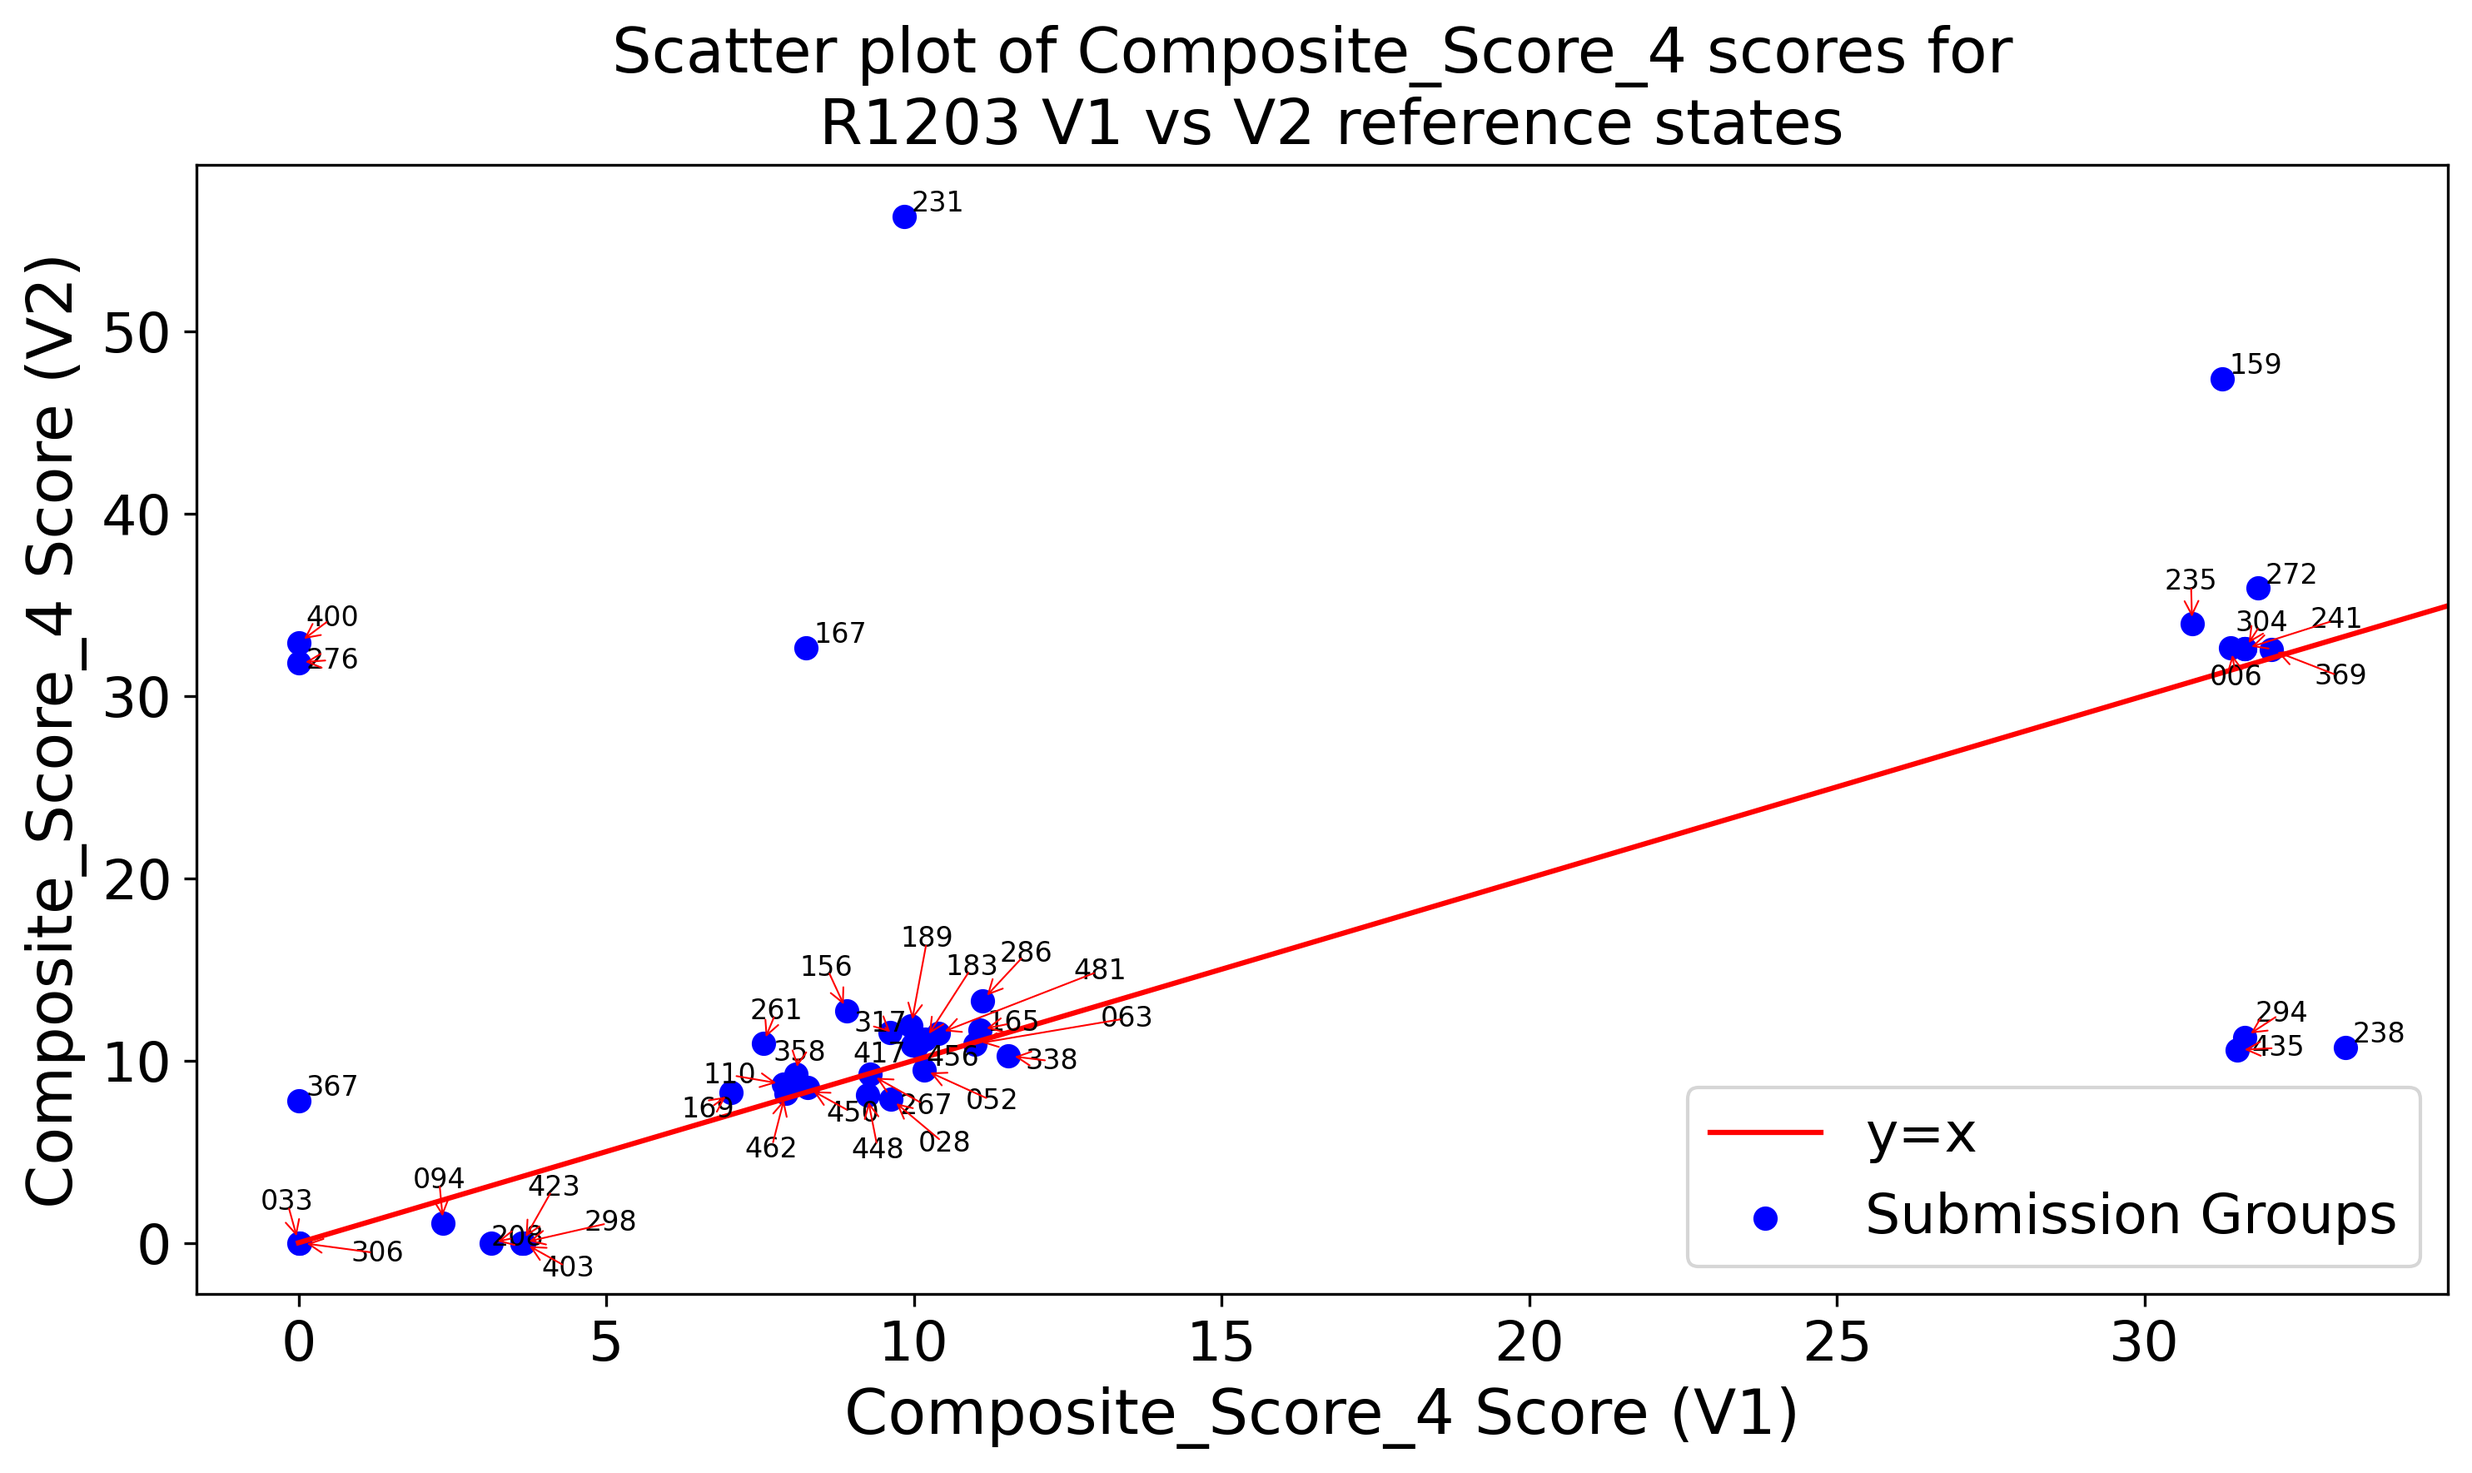
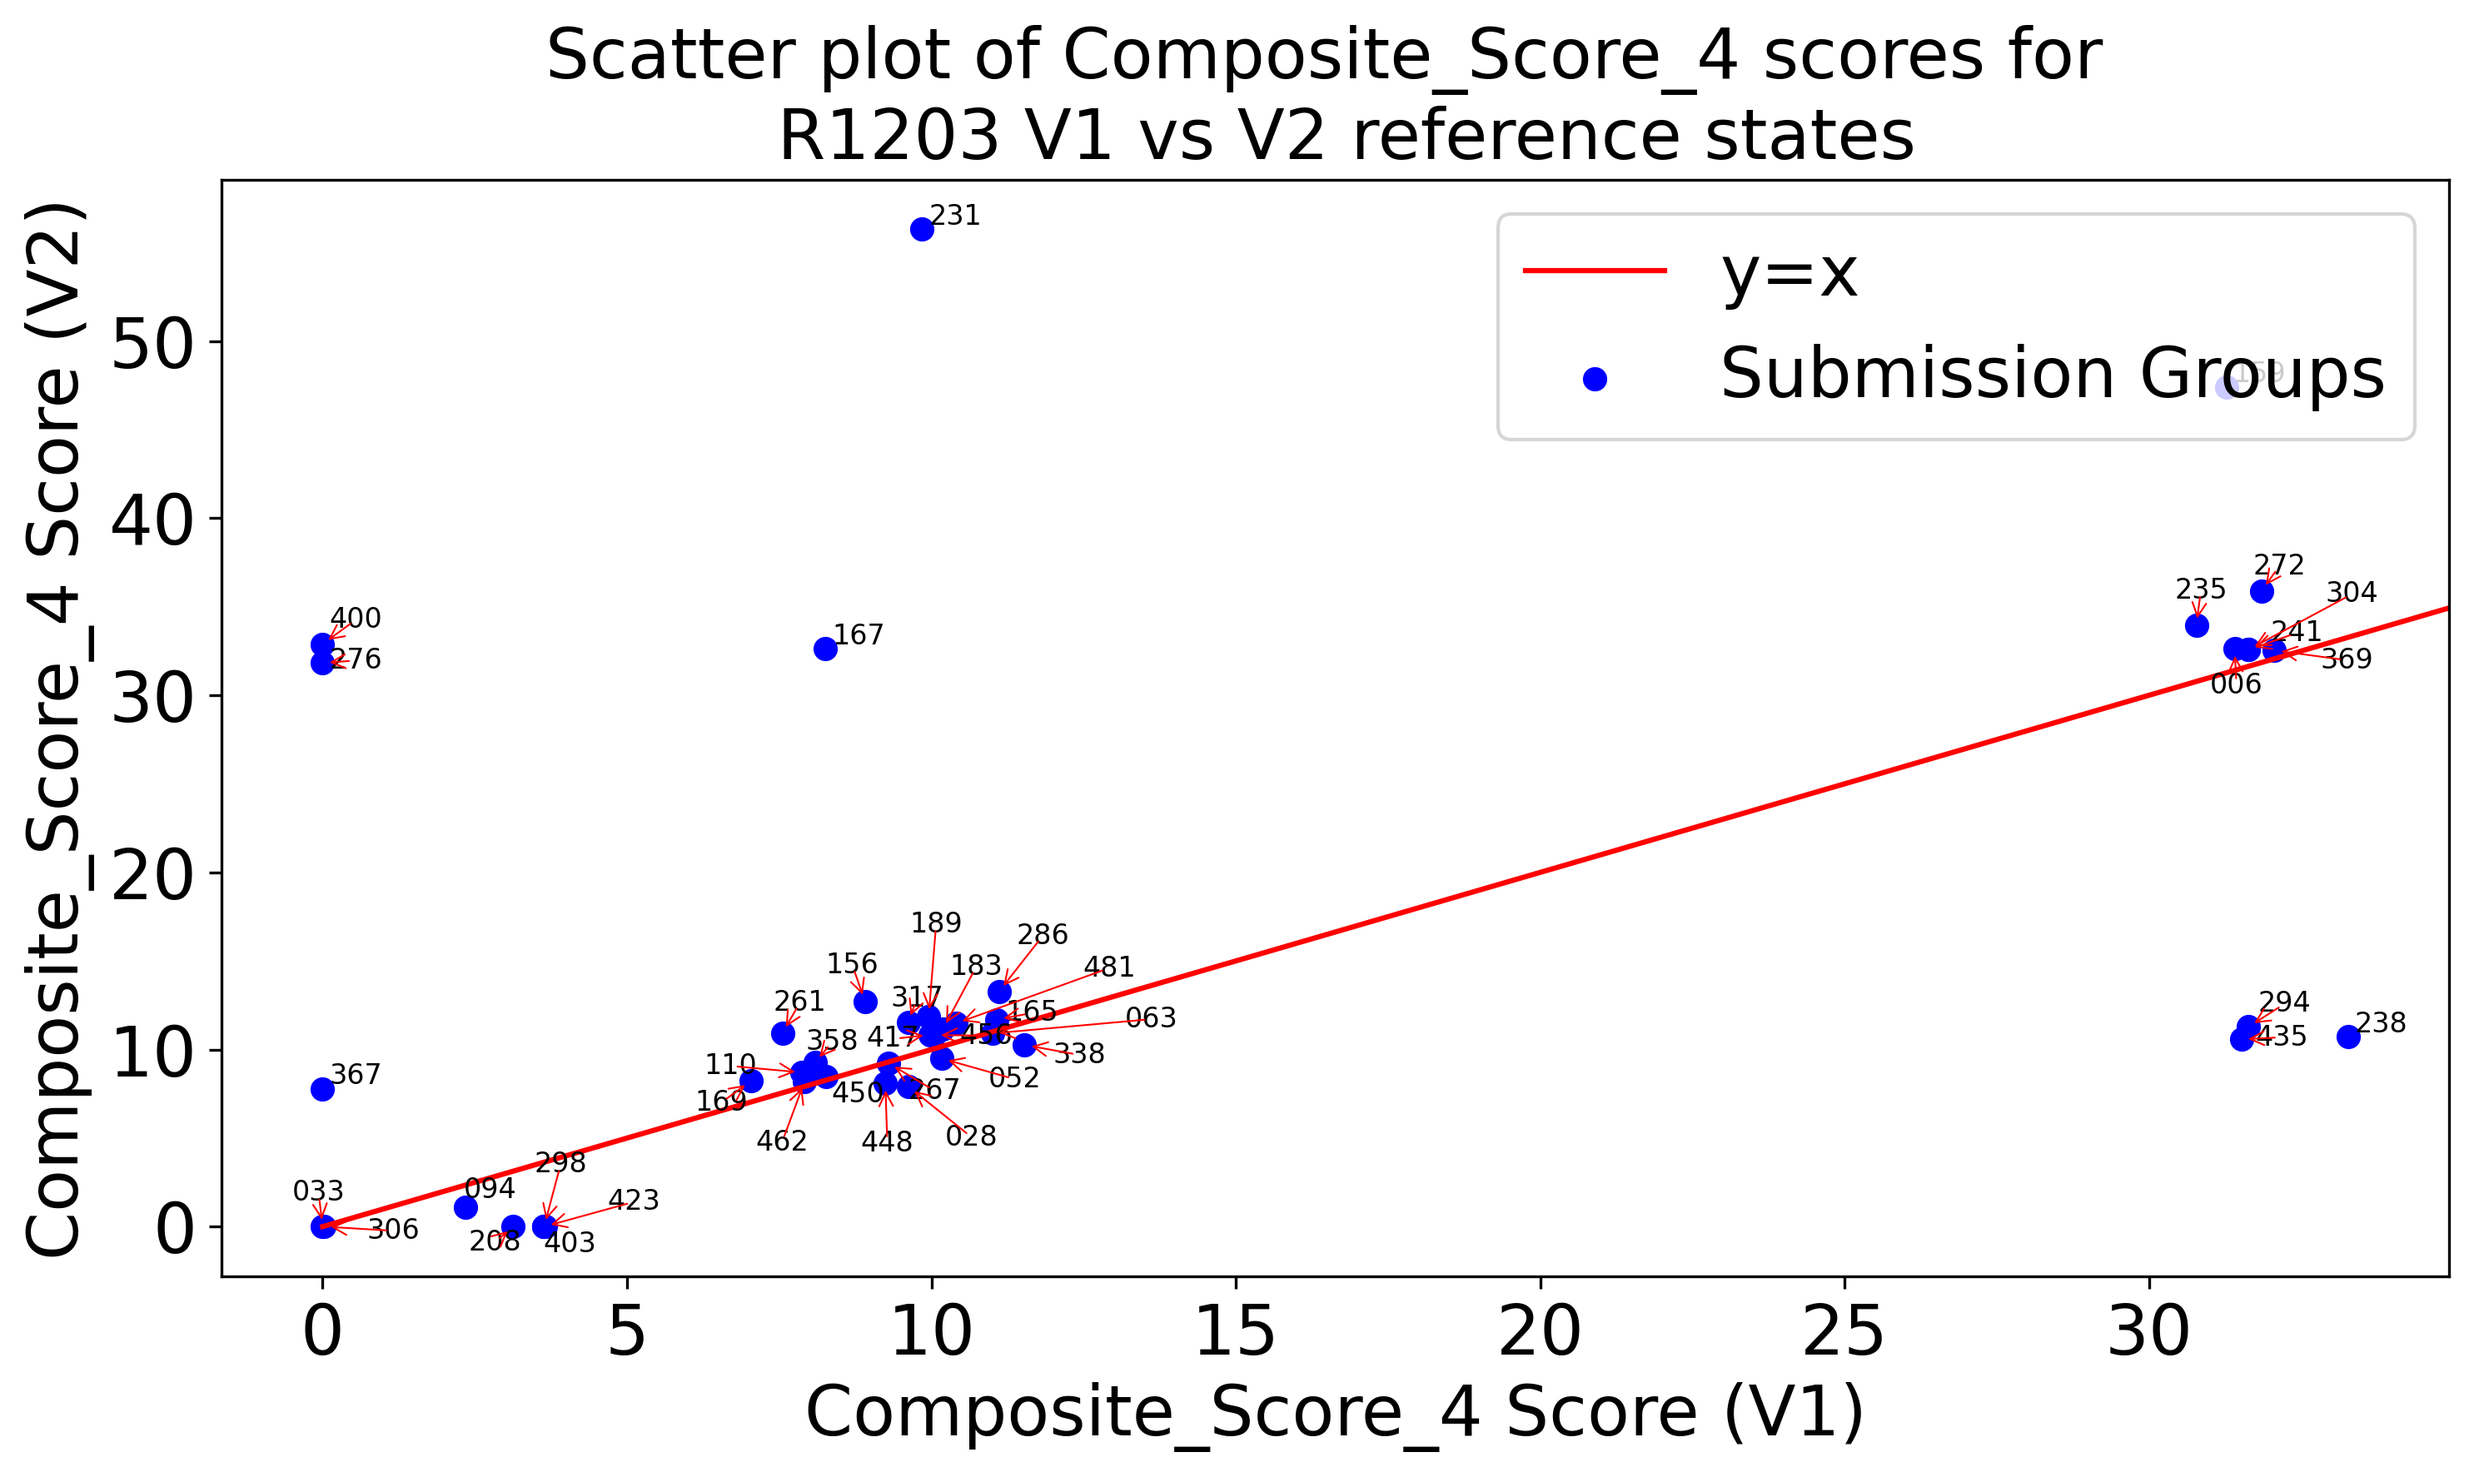
created horizontal plots and made x,y axis fonts slightly larger

diff --git a/process_two_state_score.py b/process_two_state_score.py
@@ -331,11 +331,11 @@ def create_scatter(
                         avoid_text=True,
                         avoid_points=True,
                         avoid_self=True)
-    ax_main.set_xlabel(xlabel, fontsize=18)
-    ax_main.set_ylabel(ylabel, fontsize=18)
-    ax_main.set_title(title, fontsize=18)
-    ax_main.legend(fontsize=16)
-    ax_main.tick_params(axis='both', labelsize=16)
+    ax_main.set_xlabel(xlabel, fontsize=20)
+    ax_main.set_ylabel(ylabel, fontsize=20)
+    ax_main.set_title(title, fontsize=20)
+    ax_main.legend(fontsize=20)
+    ax_main.tick_params(axis='both', labelsize=20)
     plt.tight_layout()
     if save_path:
         fig.savefig(save_path, dpi=dpi, bbox_inches='tight')
@@ -444,8 +444,47 @@ def assessment(ID, score):
     plt.yticks(fontsize=18)
     plt.tight_layout()
     # Save the plot as an image file
-    
     plt.savefig(f'./PLOTS/{ID}_{score}_two_state.png', dpi=300)
+    plt.close()
+
+    # Create a horizontal stacked bar chart
+    # Calculate figure size based on number of data points
+    num_groups = len(combined_df)
+    # Base height per group (in inches) - adjust this value to control spacing
+    height_per_group = 0.4  # inches per group
+    min_height = 6  # minimum height in inches
+    max_height = 20  # maximum height in inches
+    
+    # Calculate dynamic height
+    dynamic_height = max(min_height, min(max_height, num_groups * height_per_group))
+    fig_width = 12  # fixed width
+    
+    plt.figure(figsize=(fig_width, dynamic_height))
+    # Reverse the order of the data for horizontal plot
+    reversed_df = combined_df.iloc[::-1]
+    
+    # Get group names from the CSV file
+    group_name_lookup = get_group_name_lookup()
+    group_names = []
+    for group in reversed_df['Group']:
+        group_number = str(int(''.join(filter(str.isdigit, group)))).zfill(3)
+        group_name = group_name_lookup.get(group_number, group).strip()
+        group_names.append(group_name)
+    
+    # Calculate bar height based on font size (12pt) with padding
+    bar_height = 0.9
+    plt.barh(group_names, reversed_df[f'Best_v1_ref'], height=bar_height, label=f'<{score}> (V1)')
+    plt.barh(group_names, reversed_df[f'Best_v2_ref'], left=reversed_df[f'Best_v1_ref'], height=bar_height, label=f'<{score}> (V2)')
+    plt.ylabel('Submission Group', fontsize=18)
+    plt.xlabel('Two-State Score', fontsize=18)
+    plt.title(f'Aggregate {score} scores for \n {ID} V1 and V2 reference states', fontsize=18)
+    plt.legend(loc='lower right', fontsize=16)
+    plt.yticks(fontsize=12)
+    plt.xticks(fontsize=18)
+    plt.tight_layout()
+    # Save the horizontal plot as an image file
+    plt.savefig(f'./PLOTS/{ID}_{score}_two_state_horizontal.png', dpi=300)
+    plt.close()
 
 
 TARGET_SCORE_DICT = {"M1228": ["BestDockQ", "GDT_TS", "GlobDockQ", "GlobalLDDT", "TMscore"], 
@@ -455,10 +494,6 @@ TARGET_SCORE_DICT = {"M1228": ["BestDockQ", "GDT_TS", "GlobDockQ", "GlobalLDDT",
                      "T1239": ["GDT_TS", "GlobalLDDT"], 
                      "T1249": ["AvgDockQ", "GlobalLDDT"]}
 
-assessment("R1203", "GlobalLDDT")
-assessment("R1203", "Composite_Score_4")
-assessment("R1203", "GDT_TS")
-raise Exception("Stop here")
 
 for ID, scores in TARGET_SCORE_DICT.items():
     for score in scores:
